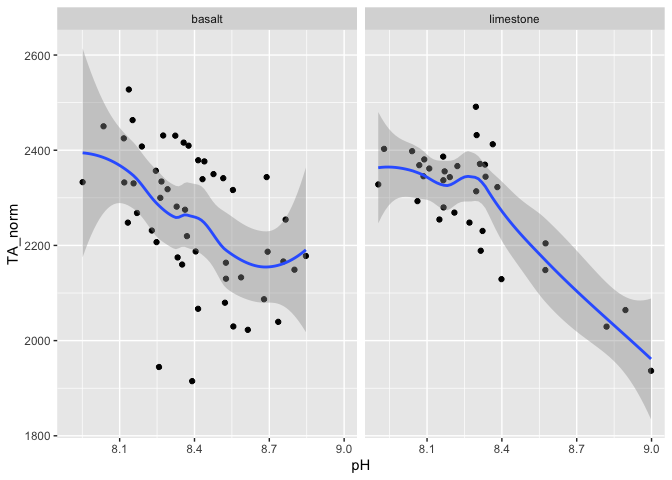
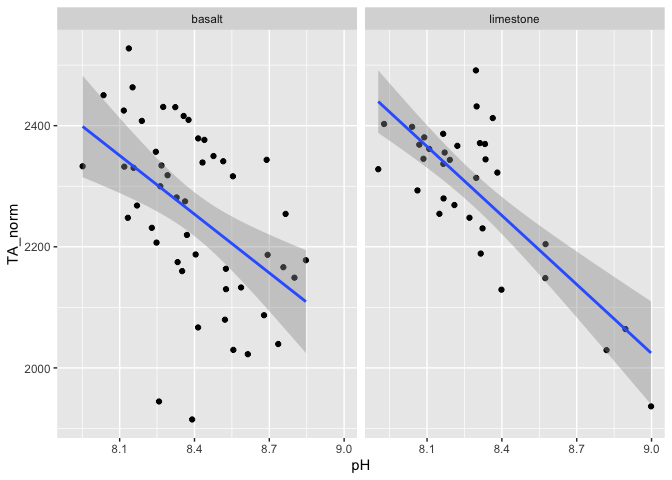
change

diff --git a/Test Sampling/Scripts/second_analysis.md b/Test Sampling/Scripts/second_analysis.md
@@ -166,10 +166,10 @@ data %>% ggplot(aes(x = sample_time, y = TA_norm)) +
 ![](second_analysis_files/figure-gfm/unnamed-chunk-19-1.png)<!-- -->
 
 ``` r
-data %>% filter(!substrate %in% "ocean") %>% ggplot(aes(x = pH, y = TA_norm)) + geom_point() + geom_smooth() + facet_wrap(~substrate)
+data %>% filter(!substrate %in% "ocean") %>% ggplot(aes(x = pH, y = TA_norm)) + geom_point() + geom_smooth(method = "lm") + facet_wrap(~substrate)
 ```
 
-    ## `geom_smooth()` using method = 'loess' and formula = 'y ~ x'
+    ## `geom_smooth()` using formula = 'y ~ x'
 
 ![](second_analysis_files/figure-gfm/unnamed-chunk-20-1.png)<!-- -->
 
@@ -179,13 +179,13 @@ delta_calc %>%
   ggplot(aes(x = delta_pH, y = delta_TA)) + 
   facet_wrap(~substrate) +
   geom_point() + 
-  geom_smooth() + 
+  geom_smooth(method = "lm") + 
   theme_bw() + 
   scale_color_manual(values = c("gray20", "sienna2")) +
   guides(color = "none") +
   labs(x = "Delta pH", y = "Delta TA") 
 ```
 
-    ## `geom_smooth()` using method = 'loess' and formula = 'y ~ x'
+    ## `geom_smooth()` using formula = 'y ~ x'
 
 ![](second_analysis_files/figure-gfm/unnamed-chunk-21-1.png)<!-- -->
